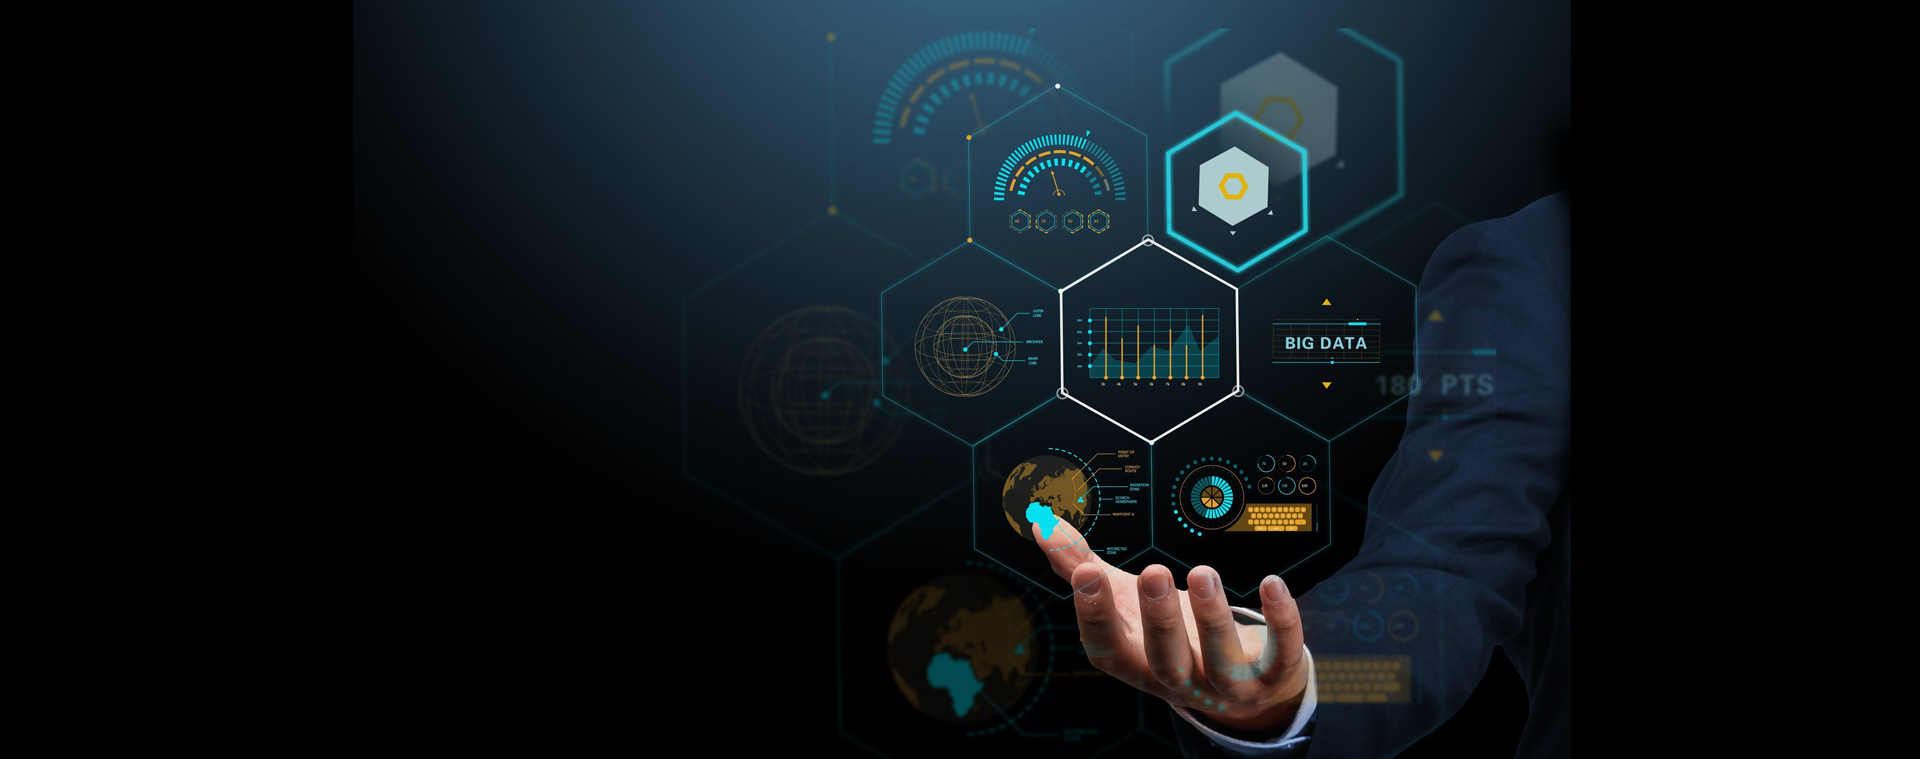
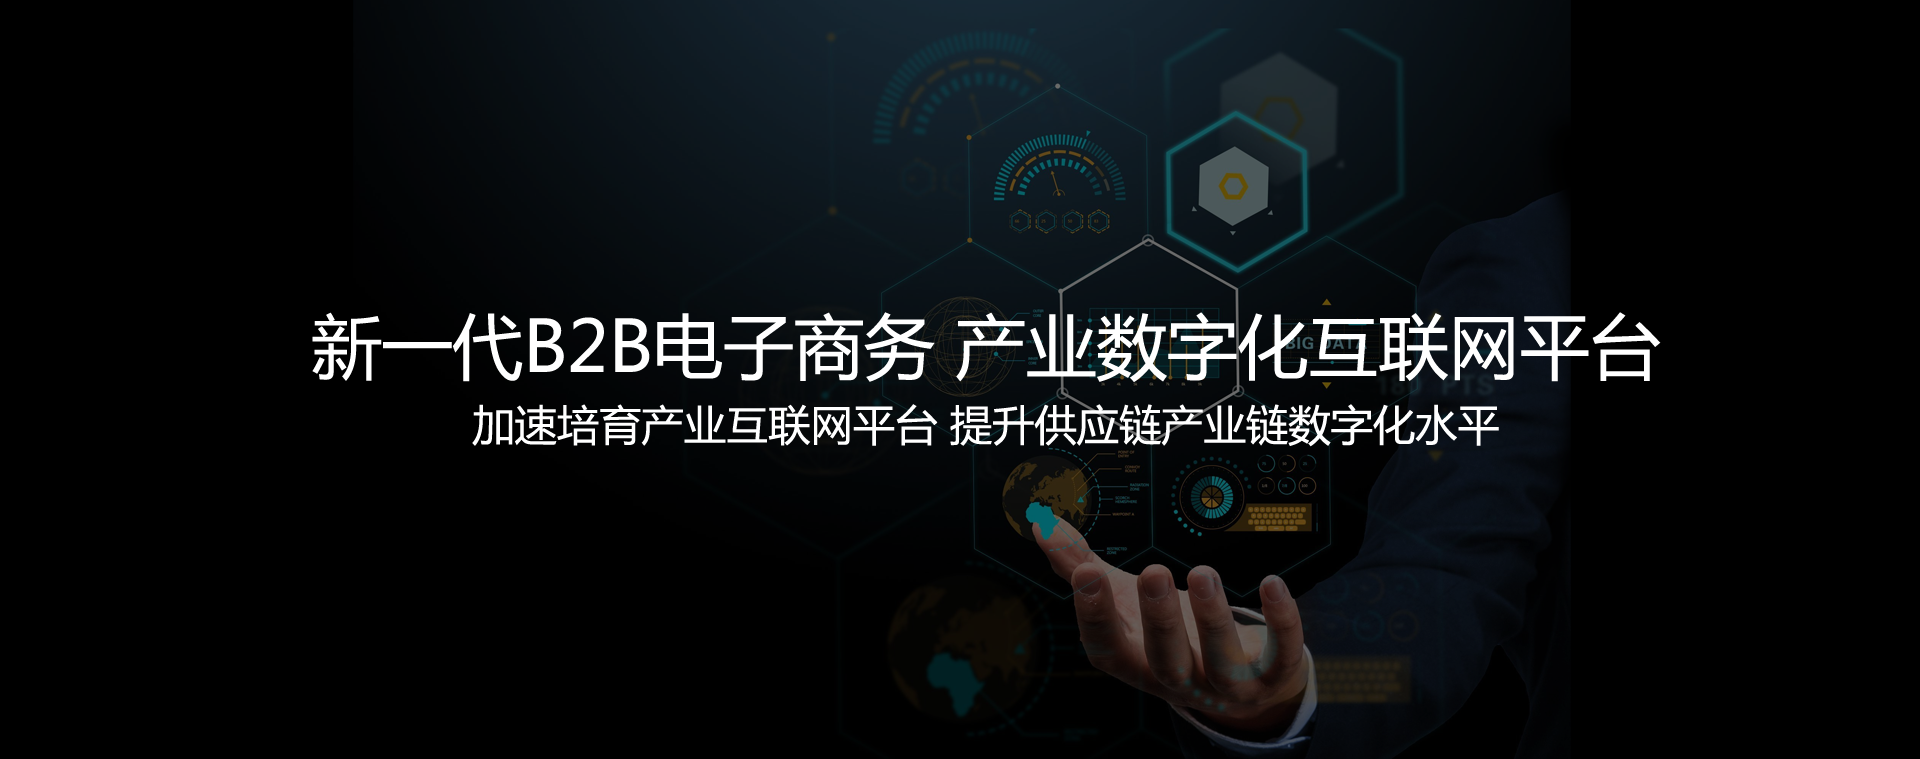
修改首页轮播图

Changed region(s): [[0.1562, 0.0, 0.875, 1.0], [0.4688, 0.8485, 0.5312, 0.9394]]

diff --git a/contact.html b/contact.html
@@ -80,7 +80,7 @@
             <div> </div>
             <b>众联汇红火联创科技有限公司</b><br />
             <b>电 话：</b>&nbsp;0757-86257060&nbsp;/ <span style="white-space:normal;">18688492388</span><br />
-            <b>邮 箱：</b>kef@sucaihuo.com<br />
+            <!-- <b>邮 箱：</b>kef@sucaihuo.com<br /> -->
             <b>地 址：</b>众联汇市朝阳区大望路soho现代城<br />
           </div>
         </div>
